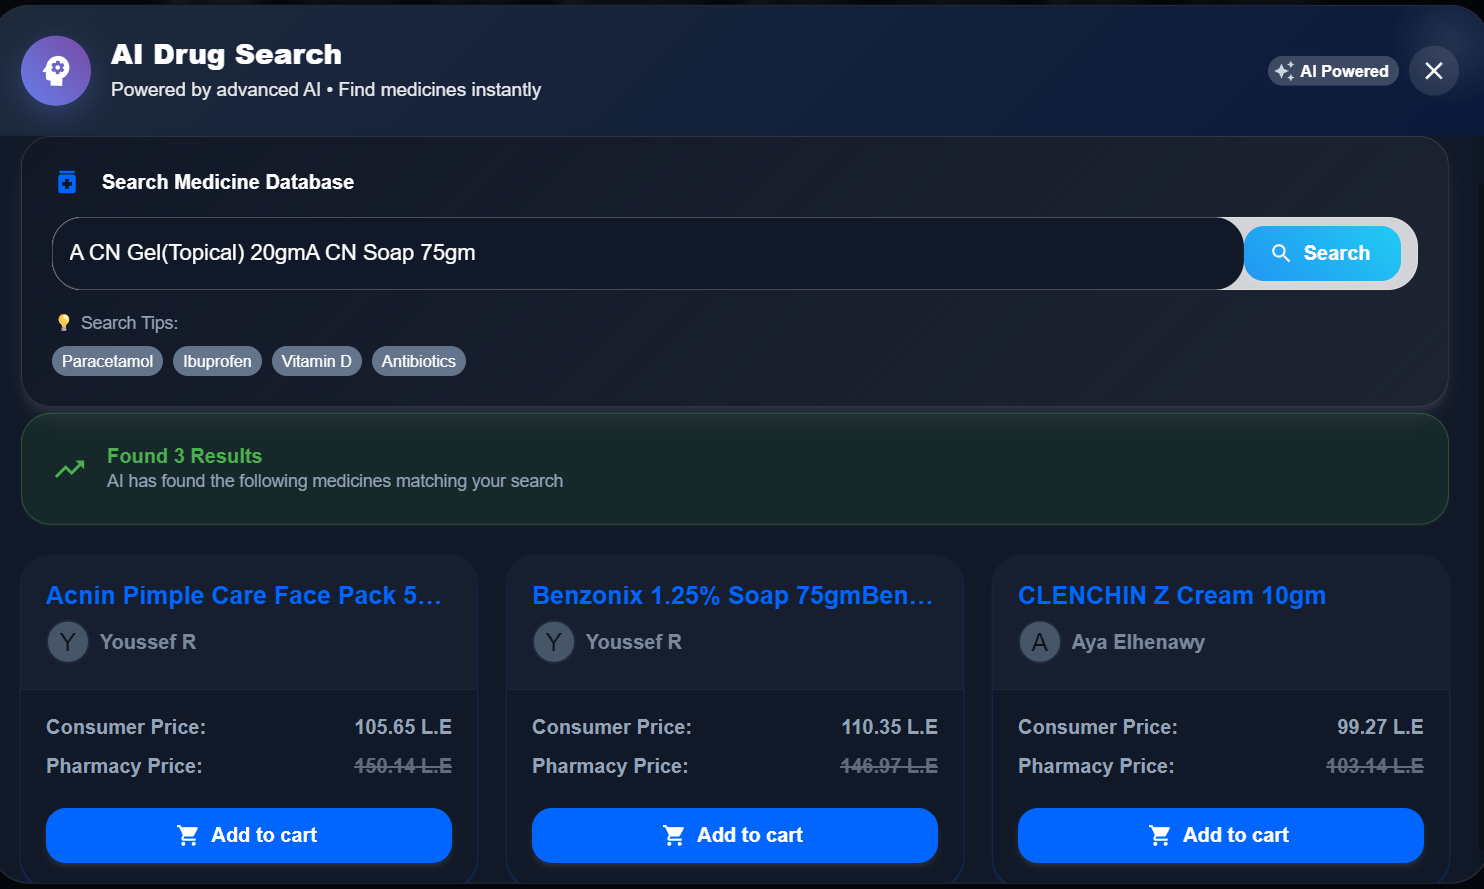
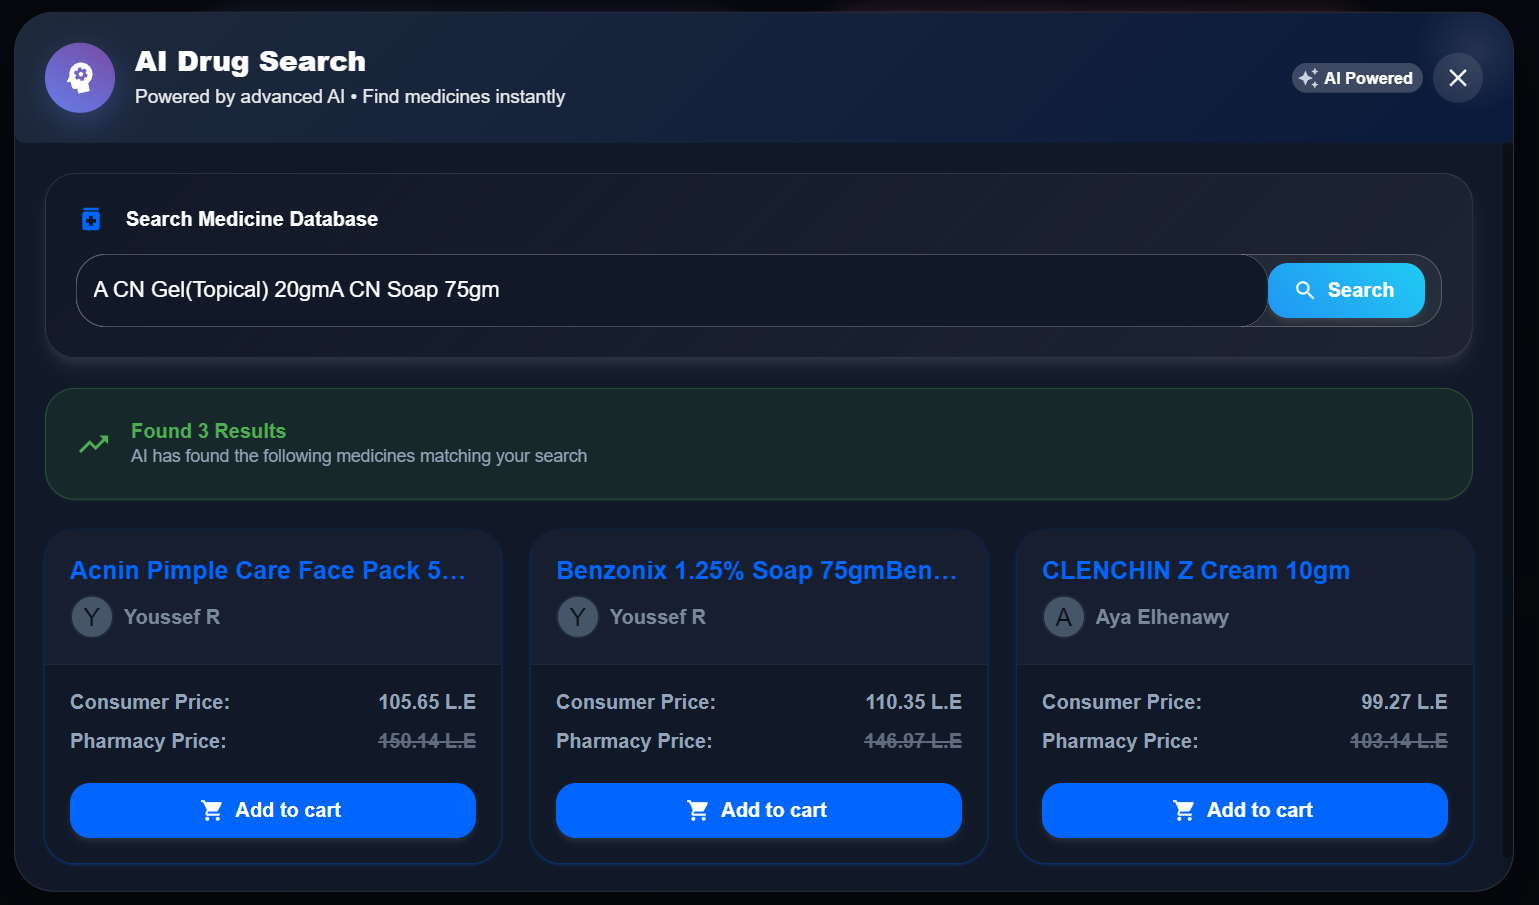
Refactor code structure for improved readability and maintainability

Changed region(s): [[0.0, 0.0, 1.0, 1.0]]

diff --git a/src/components/modal-ai/modal-ai.jsx b/src/components/modal-ai/modal-ai.jsx
@@ -329,7 +329,7 @@ const SearchAi = ({ check }) => {
                     fullWidth
                     id="medicine"
                     name="medicine"
-                    placeholder="Enter drug name, active ingredient, or condition..."
+                    placeholder="Search drugs by name and get instant results with smart filtering...."
                     variant="outlined"
                     value={formik.values.medicine}
                     onChange={formik.handleChange}
@@ -345,7 +345,6 @@ const SearchAi = ({ check }) => {
                       "& .MuiOutlinedInput-root": {
                         borderRadius: 3,
                         fontSize: "1.1rem",
-                        background: "rgba(255,255,255,0.8)",
                         backdropFilter: "blur(10px)",
                         transition: "all 0.3s ease",
                         "&:hover": {
@@ -406,44 +405,6 @@ const SearchAi = ({ check }) => {
                       ),
                     }}
                   />
-
-                  {/* Search Tips */}
-                  <Box>
-                    <Typography
-                      variant="body2"
-                      color="text.secondary"
-                      sx={{ mb: 1, fontWeight: 500 }}
-                    >
-                      💡 Search Tips:
-                    </Typography>
-                    <Stack
-                      direction="row"
-                      spacing={1}
-                      flexWrap="wrap"
-                      useFlexGap
-                    >
-                      {[
-                        "Paracetamol",
-                        "Ibuprofen",
-                        "Vitamin D",
-                        "Antibiotics",
-                      ].map((tip) => (
-                        <Chip
-                          key={tip}
-                          label={tip}
-                          size="small"
-                          onClick={() => formik.setFieldValue("medicine", tip)}
-                          sx={{
-                            cursor: "pointer",
-                            "&:hover": {
-                              bgcolor: "primary.main",
-                              color: "white",
-                            },
-                          }}
-                        />
-                      ))}
-                    </Stack>
-                  </Box>
                 </Stack>
               </Paper>
 

diff --git a/src/components/Filter/Filter.jsx b/src/components/Filter/Filter.jsx
@@ -51,10 +51,10 @@ export default function Filter({ openFilter, handleCloseFilter, setParams }) {
     textPrimary,
     shadow1,
     shadow2,
-    shadow3,
     typography,
     cardBackground,
     border,
+    backgroundElevated,
   } = useThemeConstants();
 
   // Functions
@@ -98,9 +98,10 @@ export default function Filter({ openFilter, handleCloseFilter, setParams }) {
     >
       <SlideTransition in={openFilter}>
         <Paper
-          elevation={1}
+          elevation={8}
           sx={{
             position: "fixed",
+            background: backgroundElevated,
             top: 0,
             right: 0,
             width: { xs: "85%", sm: "400px" },
@@ -166,7 +167,7 @@ export default function Filter({ openFilter, handleCloseFilter, setParams }) {
               elevation={0}
               sx={{
                 background: cardBackground,
-                boxShadow: shadow3,
+                boxShadow: 8,
                 mb: 1,
                 "&:before": { display: "none" },
                 border: "1px solid rgba(0, 0, 0, 0.08)",
@@ -238,7 +239,7 @@ export default function Filter({ openFilter, handleCloseFilter, setParams }) {
                 "&:before": { display: "none" },
                 border: border,
                 background: cardBackground,
-                boxShadow: shadow3,
+                boxShadow: 8,
                 borderRadius: "8px",
                 overflow: "hidden",
               }}
@@ -295,7 +296,7 @@ export default function Filter({ openFilter, handleCloseFilter, setParams }) {
                 background: cardBackground,
                 borderRadius: 2,
                 border: border,
-                boxShadow: shadow3,
+                boxShadow: 8,
               }}
             >
               <Box sx={{ display: "flex", alignItems: "center", mb: 2 }}>

diff --git a/src/components/LandingComponents/constants/howItWorksSteps.js b/src/components/LandingComponents/constants/howItWorksSteps.js
@@ -2,6 +2,10 @@ import AID from "../../../../src/assets/F-AI-D.png";
 import AIL from "../../../../src/assets/F-AI-L.png";
 import PRD from "../../../../src/assets/PR-D.png";
 import PRL from "../../../../src/assets/PRL.png";
+import DRUGD from "../../../../src/assets/DRUG-D.png";
+import DRUGL from "../../../../src/assets/DRUG-L.png";
+import OID from "../../../../src/assets/OID.png";
+import OIL from "../../../../src/assets/OIL.png";
 
 export const howItWorksSteps = [
   {
@@ -70,8 +74,8 @@ export const howItWorksSteps = [
           "Track stock levels and receive low-inventory notifications.",
       },
     ],
-    imageDark: AID,
-    imageLight: AIL,
+    imageDark: DRUGD,
+    imageLight: DRUGL,
   },
   {
     title: "Efficient Order Management",
@@ -93,7 +97,7 @@ export const howItWorksSteps = [
           "Stock updates automatically after each order is placed or fulfilled.",
       },
     ],
-    imageDark: AID,
-    imageLight: AIL,
+    imageDark: OID,
+    imageLight: OIL,
   },
 ];

diff --git a/src/pages/Pharmacy/HomePharmacy/_components/hero-section/_components/ai-features.jsx b/src/pages/Pharmacy/HomePharmacy/_components/hero-section/_components/ai-features.jsx
@@ -138,8 +138,8 @@ export default function AiFeatures() {
                       fontSize: "1.1rem",
                     }}
                   >
-                    Smart AI analyzes and suggests medicines by active
-                    ingredients with drug interactions
+                    Search drugs by name and get instant results with smart
+                    filtering.
                   </Typography>
                   <motion.div
                     whileHover={{ scale: 1.08 }}

diff --git a/src/App.jsx b/src/App.jsx
@@ -211,7 +211,7 @@ function App() {
               <ThemeModeProvider>
                 <Suspense fallback={<SkeletonLoader />}>
                   <RouterProvider router={router} />
-                  <ReactQueryDevtools initialIsOpen={false} />
+                  {/* <ReactQueryDevtools initialIsOpen={false} /> */}
                 </Suspense>
               </ThemeModeProvider>
             </PaginationProvider>

diff --git a/src/components/Common/ProfilePerson.jsx b/src/components/Common/ProfilePerson.jsx
@@ -155,7 +155,7 @@ export default function ProfilePerson({ open }) {
                   letterSpacing: "0.025em",
                 }}
               >
-                {userData.name}
+                {userData?.name?.split(" ")[0]}
               </Typography>
               <Typography
                 textTransform={"capitalize"}
